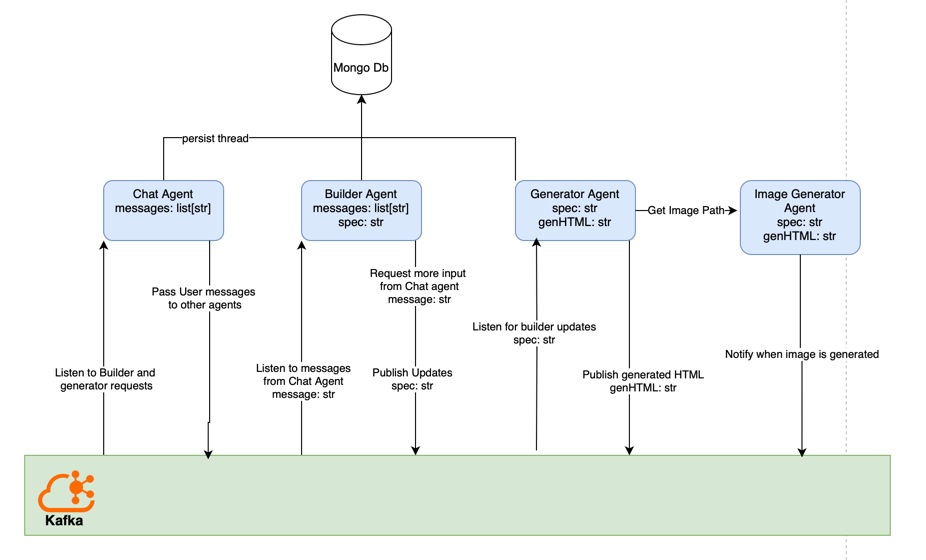
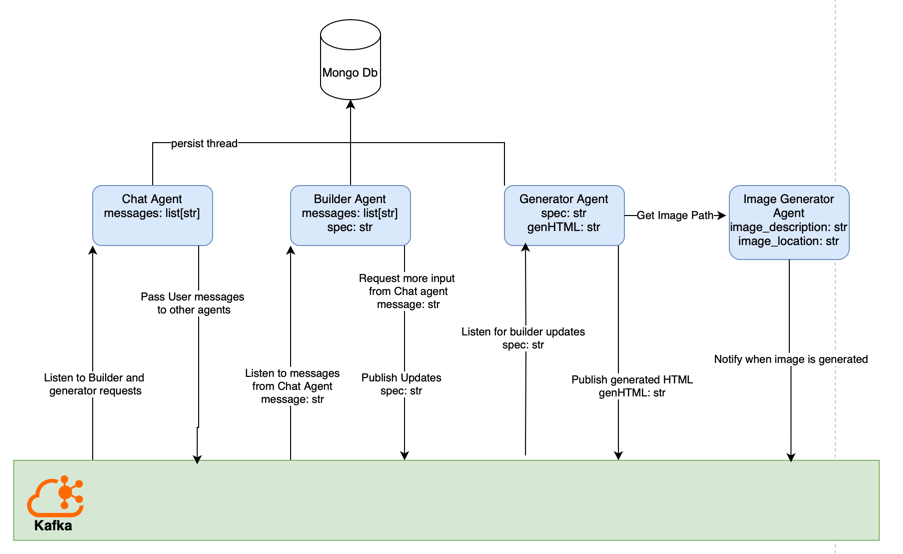
update README.md

Changed region(s): [[0.0, 0.0, 0.9922, 0.9819], [0.6202, 0.6137, 0.9612, 0.7365]]

diff --git a/README.md b/README.md
@@ -1,1 +1,8 @@
 # disc-site
+
+## Architecture
+### User Interface
+![User interface](images/UI.png)
+
+### Agent Architecture
+![User interface](images/architecture.png)
